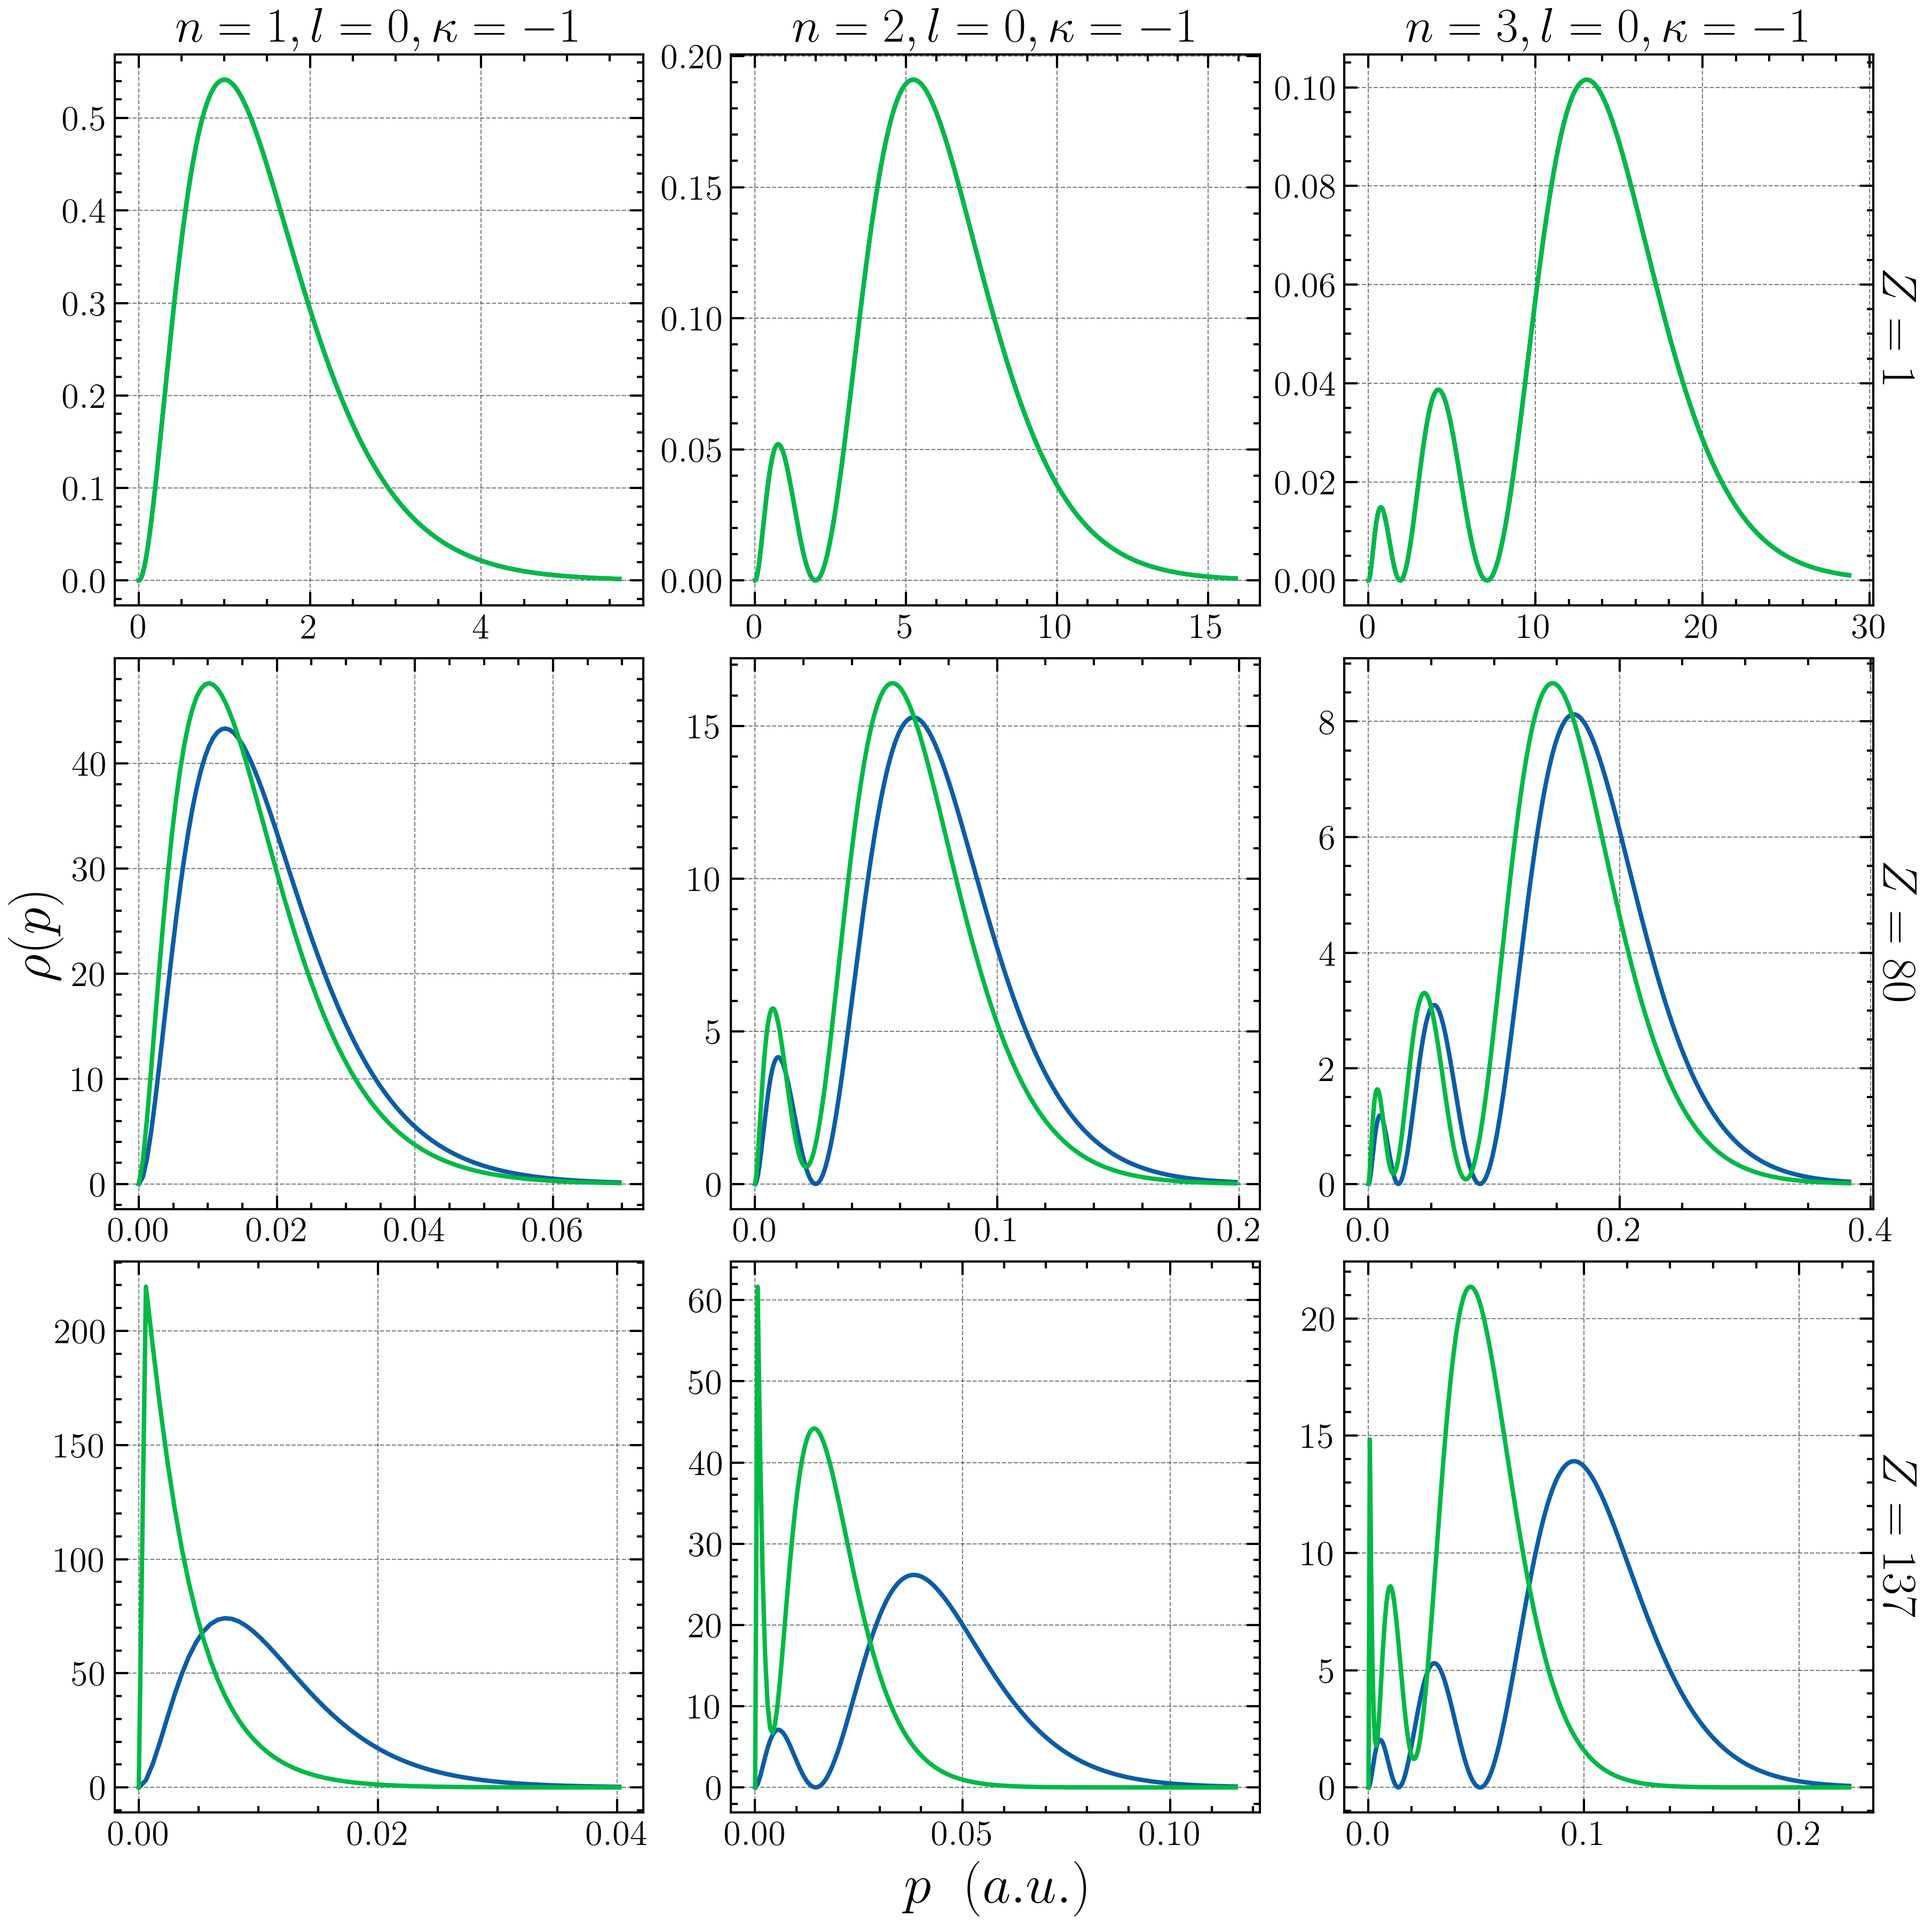
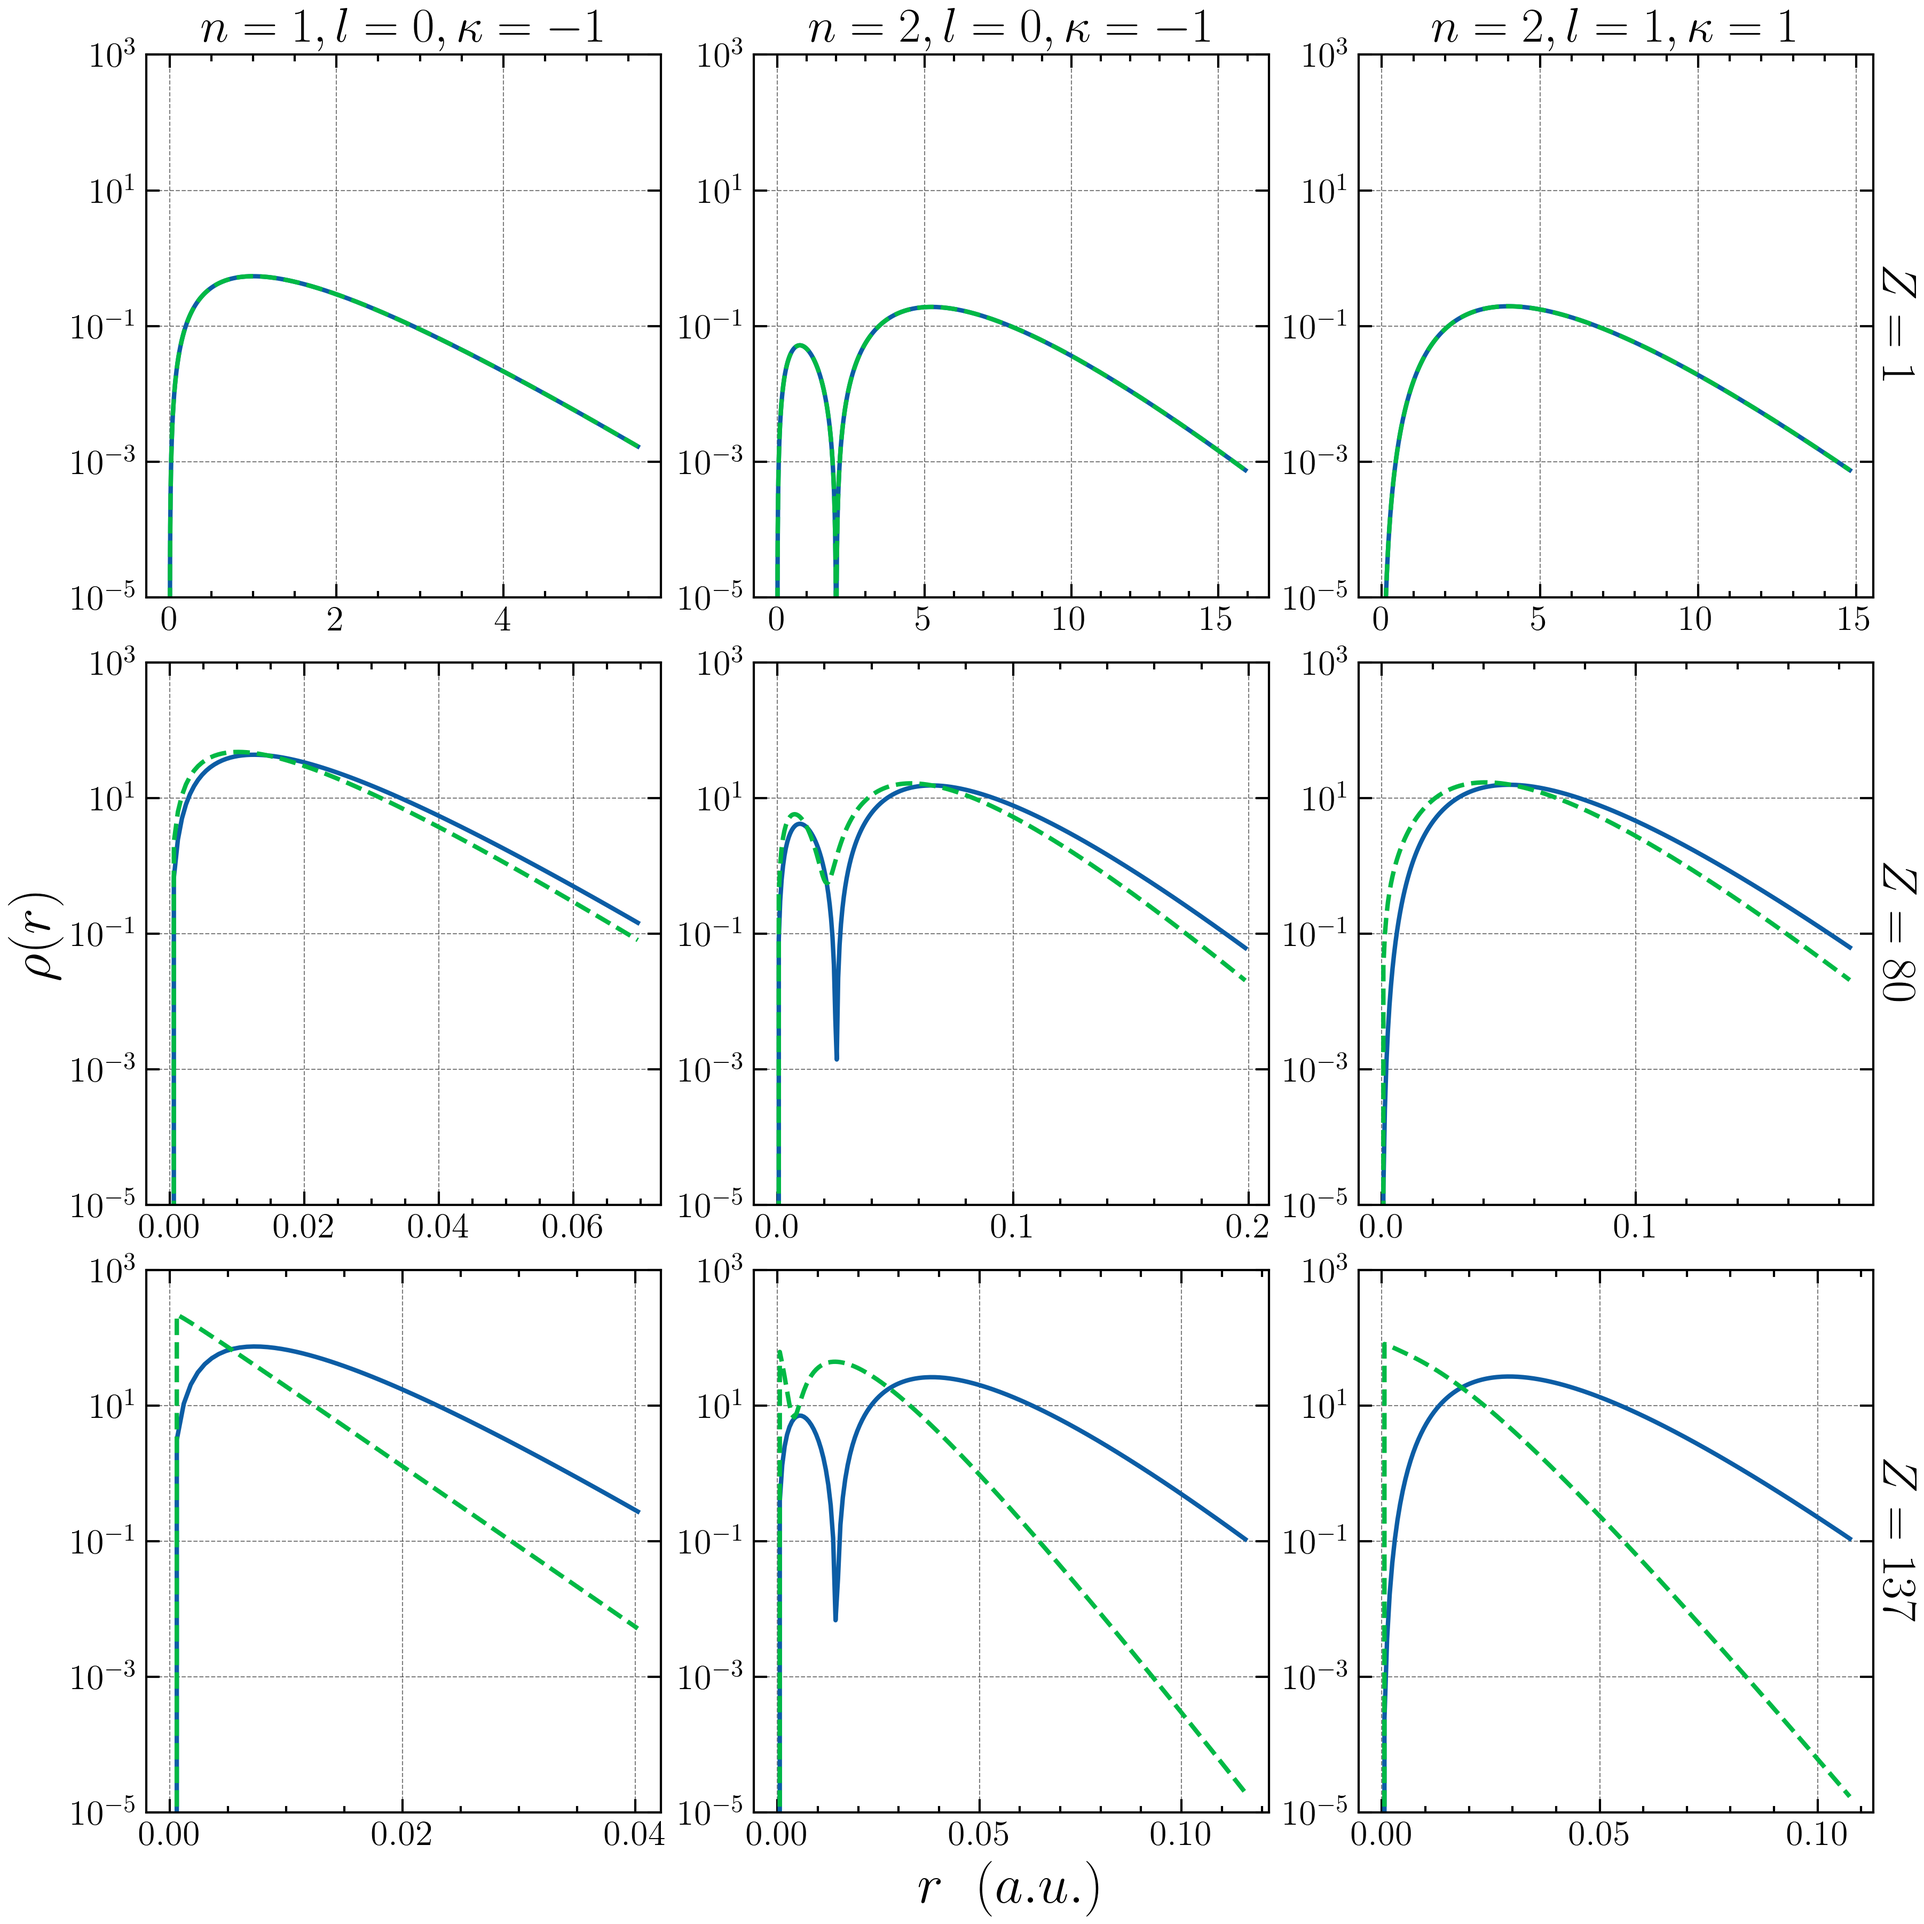
- updated all plots such that they meet the appearance desired for the thesis - corrected some mistakes in the plotting scripts

diff --git a/examples/plot_momentum_distributions.py b/examples/plot_momentum_distributions.py
@@ -9,30 +9,47 @@ plt.rcParams['text.usetex'] = True
 plt.rc('axes', titlesize=22, labelsize=22)     # fontsize of the axes title
 # %%
 Z_vals = [1, 79, 137]
-n_vals = [1, 2, 3]
-l_vals = [0, 0, 0]
-kappa_vals = [-1, -1, -1]
-p_grid = np.linspace(0, 1000, 10000)
+n_vals = [1, 2, 2]
+l_vals = [0, 0, 1]
+kappa_vals = [-1, -1, 1]
+p_grid = np.linspace(0, 1000, 100000)
 
-figname = 'comparison_momentum_distribut4ion'
+figname = 'comparison_momentum_distribution'
 figtitle = 'Comparison between Schrödinger and Dirac momentum distribution functions'
 savedir = '../data/' + figname
 # %%
 # create array of axes in one figure
 fig, ax = plt.subplots(3, 3, figsize=(12, 12), constrained_layout=True, gridspec_kw={'width_ratios': [1, 1, 1]})
-fig.suptitle(figtitle, fontsize=22)
+#fig.suptitle(figtitle, fontsize=22)
 
-for row_index in range(0, 2):
-    for col_index in range(0, 2):
+for row_index in range(0, 3):
+    for col_index in range(0, 3):
         # pick correct set of quantum numbers
         n_val = n_vals[col_index]
         l_val = l_vals[col_index]
         kappa_val = kappa_vals[col_index]
         Z_val = Z_vals[row_index]
 
-        # pick the indexed axis as the current plot
-        plt.sca(ax[row_index, col_index])
+        axis = ax[row_index, col_index]
 
+        #manage labeling with axis interface
+        if col_index == 2:
+            axis.yaxis.set_label_coords(1.0, .5)
+            axis.set_ylabel('$Z = {0}$'.format(Z_val), rotation=270, fontsize=22)
+
+        # pick the indexed axis as the current plot
+        plt.sca(axis)
+
+        # manage axis labeling
+        if row_index == 1 and col_index == 0:
+            plt.ylabel(r'$\rho(p)$', fontsize=25)
+
+        if row_index == 2 and col_index == 1:
+            plt.xlabel('$p \hspace{5 mm} (a.u.)$', fontsize=25)
+
+
+        if row_index == 0:
+            plt.title('$n = {0}, l = {1}, \kappa = {2}$'.format(n_val, l_val, kappa_val))
         # construct and evaluate Schrödinger momentum distribution function
         dist_nr = calc_momentum_distribution_function(n_val, l_val, Z_val, p_grid)
 
@@ -50,9 +67,13 @@ for row_index in range(0, 2):
         #plt.plot(p_grid, dist_rel)
 
         plt.plot(p_grid_rescaled, dist_nr_rescaled)
-        plt.plot(p_grid_rescaled, dist_rel_rescaled)
+        plt.plot(p_grid_rescaled, dist_rel_rescaled, linestyle='--')
 
         plt.yscale('log')
+        plt.ylim([1e-08, 10])
+    
+#plt.savefig(fname=savedir, dpi = 300)
+
 
 plt.show()
 # %%

diff --git a/examples/plot_radial_distributions.py b/examples/plot_radial_distributions.py
@@ -9,9 +9,9 @@ plt.rcParams['text.usetex'] = True
 plt.rc('axes', titlesize=22, labelsize=22)     # fontsize of the axes title
 # %%
 Z_vals = [1, 80, 137]
-n_vals = [1, 2, 3]
-l_vals = [0, 0, 0]
-kappa_vals = [-1, -1, -1]
+n_vals = [1, 2, 2]
+l_vals = [0, 0, 1]
+kappa_vals = [-1, -1, 1]
 r_grid = np.linspace(0, 30, 50000)
 
 figname = 'comparison_radial_distribution'
@@ -35,17 +35,17 @@ for row_index in range(0, 3):
         #manage labeling with axis interface
         if col_index == 2:
             axis.yaxis.set_label_coords(1.0, .5)
-            axis.set_ylabel('$Z = {0}$'.format(Z_val), rotation=270)
+            axis.set_ylabel('$Z = {0}$'.format(Z_val), rotation=270, fontsize=22)
 
         # pick the indexed axis as the current plot
         plt.sca(axis)
 
         # manage axis labeling
         if row_index == 1 and col_index == 0:
-            plt.ylabel(r'$\rho(p)$', fontsize=25)
+            plt.ylabel(r'$\rho(r)$', fontsize=25)
 
         if row_index == 2 and col_index == 1:
-            plt.xlabel('$p \hspace{5 mm} (a.u.)$', fontsize=25)
+            plt.xlabel('$r \hspace{5 mm} (a.u.)$', fontsize=25)
 
 
         if row_index == 0:
@@ -60,12 +60,15 @@ for row_index in range(0, 3):
         print(type(dist_rel))
 
         # rescale axes
-        p_grid_rescaled, dist_nr_rescaled, rescale_index = rescale_axes(r_grid, dist_nr, isovalue=0.999)
+        r_grid_rescaled, dist_nr_rescaled, rescale_index = rescale_axes(r_grid, dist_nr, isovalue=0.999)
 
         dist_rel_rescaled = dist_rel[:rescale_index]
 
-        plt.plot(p_grid_rescaled, dist_nr_rescaled)
-        plt.plot(p_grid_rescaled, dist_rel_rescaled)
+        plt.plot(r_grid_rescaled, dist_nr_rescaled)
+        plt.plot(r_grid_rescaled, dist_rel_rescaled, linestyle='--')
+
+        plt.yscale('log')
+        plt.ylim([1e-5, 1e+3])
 
 plt.savefig(fname=savedir, dpi = 300)
 # %%
